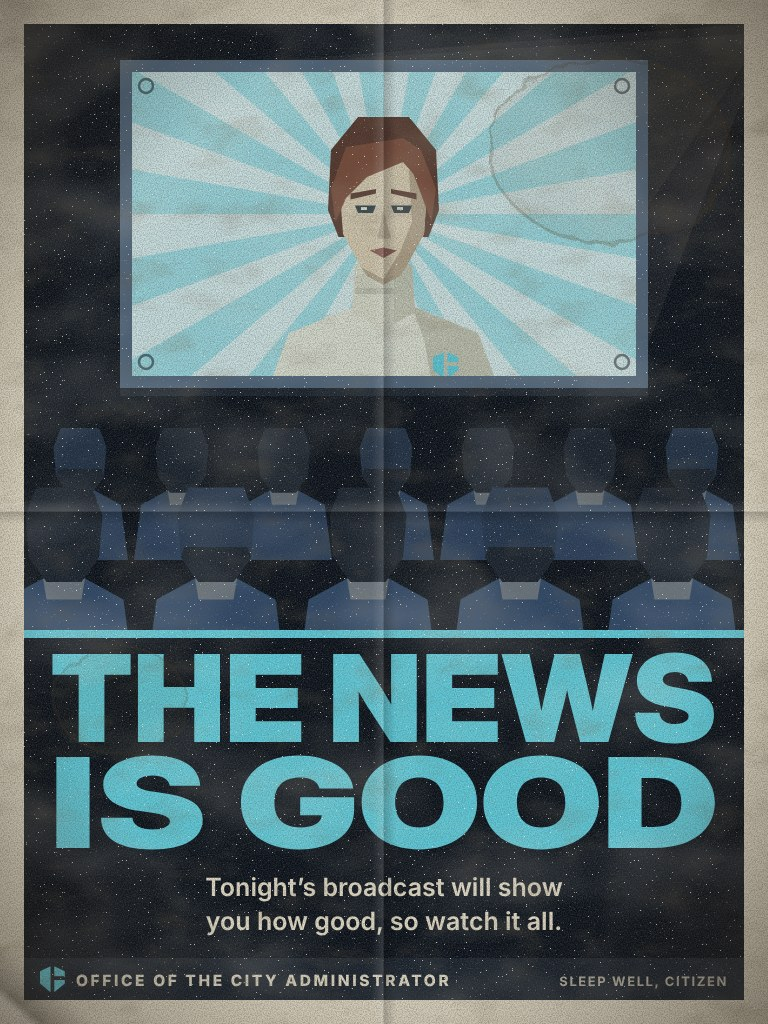
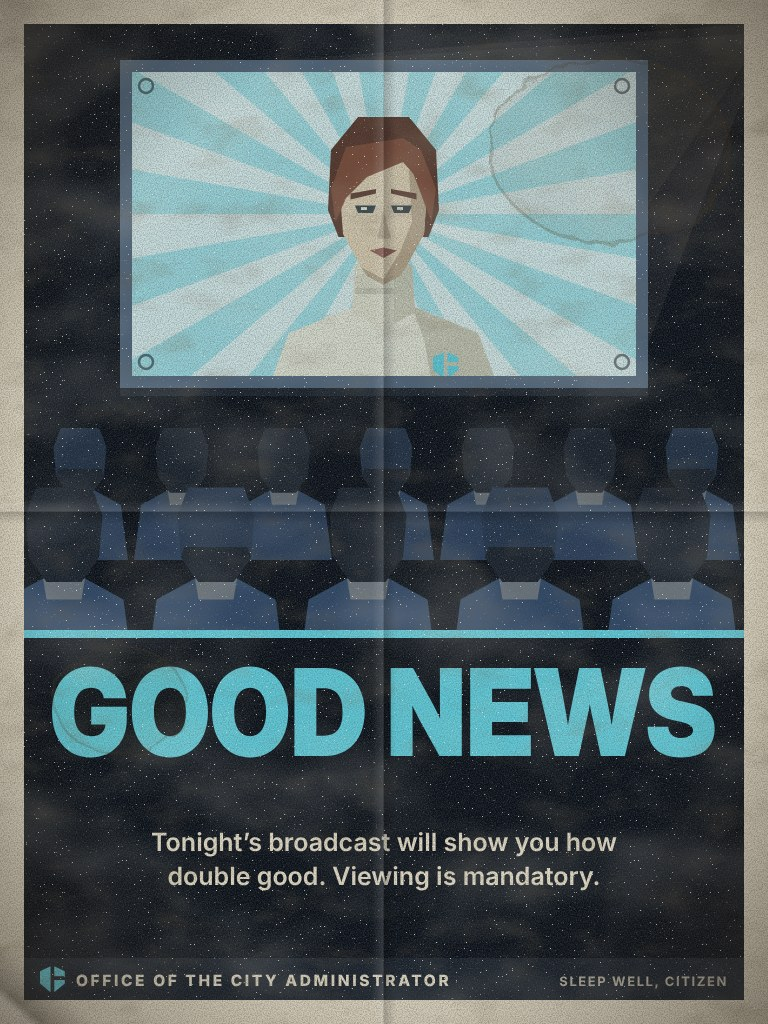
Dream posters: the owner's own wording, and three art fixes
The 21 Nightmare and propaganda dream posters carry the owner's corrected
headlines and subtitles, in the code and on the pictures. The barrels
poster's citizen is redrawn, the crossed pillars behind On-the-Spot
Guidance are factory windows, and the Battle Line's soldiers are drawn as
Overwatch soldiers. The owner's slogan is noted for later use.

Claude-Session: https://claude.ai/code/session_01Y8SXQorFoe55U3GQd1K7aN

Changed region(s): [[0.0625, 0.625, 0.9375, 0.9062]]

diff --git a/_dev/posters/dreams4.js b/_dev/posters/dreams4.js
@@ -50,7 +50,10 @@ ART.dream_massgames = () => {
 // On-the-Spot Guidance
 ART.dream_guidance = () => {
   let s = R(0, 0, 720, 610, '#cfc8b4') + rays(140, 200, 40, 1000, C.paper, 0, 360, 'opacity=".6"');
-  for (let x = 330; x < 720; x += 130) s += R(x, 0, 14, 300, C.steel2) + R(x - 40, 60, 94, 10, C.steel2);
+  for (const x of [330, 456, 582]) {
+    s += R(x, 28, 104, 250, C.steel) + R(x + 8, 36, 88, 234, '#e9e3d2');
+    s += R(x + 48, 36, 8, 234, C.steel) + R(x + 8, 92, 88, 7, C.steel) + R(x + 8, 150, 88, 7, C.steel) + R(x + 8, 208, 88, 7, C.steel);
+  }
   s += R(0, 540, 720, 70, C.steel) + R(0, 540, 720, 6, C.slate3);
   // the station
   s += R(372, 356, 250, 190, C.slate) + R(372, 356, 250, 14, C.slate2) + R(392, 392, 90, 60, '#16212e') + L('M400,436 L420,410 L440,426 L470,402', C.cyan, 4) + `<circle cx="520" cy="410" r="12" fill="${C.red}"/><circle cx="560" cy="410" r="12" fill="${C.steel2}"/>`;
@@ -158,32 +161,48 @@ function giant(x, base, h, col) {
   return P(`M${x - w * 0.5},${base} L${x - w * 0.56},${base - h * 0.62} L${x - w * 0.3},${base - h * 0.74} L${x + w * 0.3},${base - h * 0.74} L${x + w * 0.56},${base - h * 0.62} L${x + w * 0.5},${base}Z`, col) +
     E(x, base - h * 0.86, w * 0.2, h * 0.11, col) + P(`M${x - w * 0.56},${base - h * 0.62} L${x - w * 0.95},${base - h * 0.98} L${x - w * 0.78},${base - h * 1.02} L${x - w * 0.3},${base - h * 0.74}Z`, col) + P(`M${x + w * 0.56},${base - h * 0.62} L${x + w * 0.9},${base - h * 0.3} L${x + w * 0.72},${base - h * 0.26} L${x + w * 0.4},${base - h * 0.56}Z`, col);
 }
+// an Overwatch soldier in profile, facing right, aiming a pulse rifle (about 260 x 300; the legs behind cover)
+function soldier(x, y, s) {
+  const suit = '#465763', suitD = '#33414c', vest = '#1c252f', mask = '#55646e';
+  return G(`translate(${x},${y}) scale(${s})`, [
+    P('M26,118 L112,108 L126,300 L18,300Z', suit), P('M34,112 L108,106 L118,214 L30,220Z', vest), P('M30,220 L118,214 L120,232 L28,238Z', suitD),
+    P('M40,128 L98,122 L100,134 L40,140Z', suitD) + P('M42,150 L100,144 L102,156 L42,162Z', suitD),
+    P('M36,96 L60,104 L58,120 L30,112Z', vest), P('M44,84 L60,96 L112,96 L116,104 L52,108Z', vest),
+    P('M40,62 Q38,12 84,10 Q124,10 128,52 L130,76 L114,96 L60,96 L44,84Z', mask), P('M40,62 Q38,12 84,10 Q100,10 110,18 Q70,16 62,60 L60,96 L44,84Z', suitD),
+    `<circle cx="106" cy="52" r="14" fill="${vest}"/><circle cx="106" cy="52" r="9" fill="${C.cyan}"/><circle cx="103" cy="49" r="3" fill="#eafcff"/>`,
+    P('M116,70 L142,74 L142,94 L114,96Z', vest), `<circle cx="134" cy="85" r="9" fill="${C.steel}"/><circle cx="134" cy="85" r="4" fill="${vest}"/>`,
+    L('M118,94 Q96,118 70,112', vest, 7),
+    // the rifle, and the arms on it
+    P('M92,150 L262,120 L264,134 L206,146 L196,168 L164,172 L154,156 L96,168Z', '#10161d'), R(196, 124, 60, 5, C.cyan, 'transform="rotate(-10 196 124)"'), P('M150,160 L170,158 L166,196 L150,196Z', '#10161d'),
+    P('M60,122 L96,118 L128,166 L104,180Z', suit), P('M104,180 L128,166 L176,150 L182,164 L122,192Z', suitD), R(72, 132, 22, 16, C.warm, 'transform="rotate(-8 72 132)"'),
+    P('M176,150 L196,146 L200,160 L182,164Z', vest),
+  ].join(''));
+}
 ART.dream_battleline = () => {
-  let s = R(0, 0, 720, 610, DARK) + E(360, 400, 520, 260, C.red, 'opacity=".16"') + E(360, 400, 340, 170, C.red, 'opacity=".16"');
+  let s = R(0, 0, 720, 610, DARK) + E(500, 380, 460, 280, C.red, 'opacity=".16"') + E(520, 380, 300, 180, C.red, 'opacity=".16"');
   // the giants
-  for (const [x, h, o] of [[150, 300, 0.5], [600, 250, 0.45], [370, 400, 0.85]]) s += `<g opacity="${o}">` + giant(x, 440, h * 1.04, C.redD) + giant(x, 440, h, C.red) + '</g>';
-  s += `<circle cx="358" cy="94" r="5" fill="#fff4ee"/><circle cx="384" cy="94" r="5" fill="#fff4ee"/>`;
+  for (const [x, h, o] of [[420, 250, 0.45], [660, 300, 0.55], [540, 410, 0.9]]) s += `<g opacity="${o}">` + giant(x, 440, h * 1.04, C.redD) + giant(x, 440, h, C.red) + '</g>';
+  s += `<circle cx="528" cy="88" r="5" fill="#fff4ee"/><circle cx="554" cy="88" r="5" fill="#fff4ee"/>`;
   s += skyline(440, '#0d141d', '#3a2420', 5, 110) + R(0, 436, 720, 174, '#0d141d');
+  // her soldiers, and their fire
+  for (const [x, y, k, a] of [[250, 268, 0.86, -16], [124, 252, 1.0, -13], [-18, 234, 1.16, -10]]) {
+    s += G(`rotate(${a} ${x + 80 * k} ${y + 200 * k})`, soldier(x, y, k) + L(`M${x + 270 * k},${y + 124 * k} L${x + 420 * k},${y + 98 * k}`, C.cyan, 5 * k, 'opacity=".8" stroke-dasharray="26 18"') + `<circle cx="${x + 266 * k}" cy="${y + 126 * k}" r="${9 * k}" fill="#eafcff"/>`);
+  }
   // the line
   s += P('M0,520 L60,490 L150,496 L230,484 L330,494 L420,486 L520,496 L610,486 L720,500 L720,610 L0,610Z', C.slate2) + P('M0,540 L720,524 L720,610 L0,610Z', C.slate);
   for (let i = 0; i < 9; i++) s += E(40 + i * 82, 508, 44, 16, C.slate3) + E(40 + i * 82, 504, 44, 13, '#52677d');
-  // her soldiers
-  for (const [x, y, k] of [[20, 400, 1.5], [170, 392, 1.6], [330, 388, 1.65], [490, 392, 1.6], [630, 400, 1.5]]) {
-    s += L(`M${x + 70 * k},${y + 96 * k} L${x + 100 * k},${y - 6 * k}`, C.steel, 7) + `<circle cx="${x + 100 * k}" cy="${y - 8 * k}" r="5" fill="${C.cyan}"/>`;
-    s += reader(x, y, k, 3, true) + R(x + 22 * k, y + 38 * k, 36 * k, 5 * k, C.cyan, 'opacity=".7"');
-  }
   return s;
 };
 
 const POSTERS = [
-  row('hate', 81, ['TWO MINUTES.', 'EVERY CITIZEN.'], { night: true }),
-  row('massgames', 82, ['TEN THOUSAND', 'AS ONE']),
-  row('guidance', 83, ['SHE IS COMING TO', 'YOUR WORKPLACE'], { accent: 'red' }),
+  row('hate', 81, ['TWO PURE', 'MINUTES.'], { night: true }),
+  row('massgames', 82, ['WE ARE ONE']),
+  row('guidance', 83, ['WORKPLACE', 'VISITS'], { accent: 'red' }),
   row('scrap', 84, ['EVERY CAN', 'COUNTS']),
-  row('flowers', 85, ['GREET THE', 'LIBERATORS'], { accent: 'red' }),
-  row('duck', 86, ['WHEN THE SIREN SOUNDS,', 'DUCK AND COVER']),
+  row('flowers', 85, ['GREET YOUR', 'LIBERATORS'], { accent: 'red' }),
+  row('duck', 86, ['DUCK AND', 'COVER']),
   row('ravenholm', 87, ["WE DON'T GO", 'TO RAVENHOLM'], { night: true, ground: '#0a111a' }),
-  row('battleline', 88, ['THE LINE', 'HOLDS'], { night: true }),
+  row('battleline', 88, ['HOLD THE LINE'], { night: true }),
 ];
 
 module.exports = { ART, POSTERS };

diff --git a/_dev/posters/dreams2.js b/_dev/posters/dreams2.js
@@ -75,7 +75,7 @@ ART.dream_barrels = () => {
   s += L('M360,80 Q400,40 452,48', C.paper, 4, 'opacity=".5"') + L('M344,112 Q372,84 400,78', C.paper, 4, 'opacity=".35"') + L('M486,70 Q516,96 520,132', C.paper, 4, 'opacity=".5"');
   // where it will land
   s += E(590, 562, 78, 12, '#05080d', 'opacity=".75"');
-  s += citizen(552, 338, 0.98, { tone: 1 });
+  s += G('translate(652,0) scale(-1,1)', walker(0, 556 - 258 * 0.92, 0.92, { leg: '#4a6077', hat: '#4a6077' }));
   s += L('M520,120 Q590,190 592,300', C.red, 5, 'stroke-dasharray="10 12" opacity=".8"') + P('M580,296 L604,296 L592,320Z', C.red, 'opacity=".8"');
   return s;
 };
@@ -140,9 +140,9 @@ ART.dream_molasses = () => {
 const N = { night: true };
 const POSTERS = [
   row('maze', 61, ['THE PATROL KNOWS', 'EVERY TURN'], N),
-  row('barrels', 62, ['DO NOT STACK', 'THE BARRELS'], N),
+  row('barrels', 62, ['DO NOT', 'STACK BARRELS'], N),
   row('crumble', 63, ['WATCH', 'YOUR STEP'], N),
-  row('freeze', 64, ['WHEN A UNIT SAYS', 'FREEZE, FREEZE'], { accent: 'cyan' }),
+  row('freeze', 64, ['WHEN A UNIT SAYS', 'FREEZE, YOU FREEZE'], { accent: 'cyan' }),
   row('molasses', 65, ['RUNNING', 'IS FORBIDDEN'], N),
 ];
 

diff --git a/_dev/posters/dreams3.js b/_dev/posters/dreams3.js
@@ -151,7 +151,7 @@ const POSTERS = [
   row('harvest', 75, ['A RECORD', 'HARVEST'], { accent: 'red' }),
   row('shift', 76, ['DOUBLE THE QUOTA.', 'DOUBLE THE GLORY.'], { accent: 'red' }),
   row('spy', 77, ['CARELESS TALK', 'COSTS LIVES']),
-  row('newsreel', 78, ['THE NEWS', 'IS GOOD'], { night: true, acc: C.cyan, ground: '#0a111a' }),
+  row('newsreel', 78, ['GOOD NEWS'], { night: true, acc: C.cyan, ground: '#0a111a' }),
 ];
 
 module.exports = { ART, POSTERS };

diff --git a/PLAYER_TEXT.md b/PLAYER_TEXT.md
@@ -4,7 +4,7 @@ Made by `python3 _dev/player_text.py` from the code itself, so it can be made ag
 
 **How to correct it:** change the words inside the quotes, then send the whole file back. Leave everything outside the quotes as it is (that's how each line is found in the code again). Keep any {name} or %d / %s parts: the game fills those in. A line you don't touch stays as it is. To drop a line altogether, write DELETE inside its quotes. A note for me about a line can go after it on the same line, starting with NOTE:.
 
-Made from version 4b29dde. Admin-only console messages and log lines are left out.
+Made from version a2ae56c. Admin-only console messages and log lines are left out.
 
 12341 lines, from 332 files.
 
@@ -8660,69 +8660,69 @@ Made from version 4b29dde. Admin-only console messages and log lines are left ou
 
 > Note for you (not shown in game): Happy
 
-- "The sky belongs to the Combine, and citizens who leave the ground will be returned to it."  (text, line 43)
-- "Fresh fruit is a privilege of compliance; do not look up for it."  (text, line 44)
-- "A small, bald, beaked pet is loose in the city: do not approach it, do not feed it, report it."  (text, line 45)
-- "Movement without purpose is forbidden, and movement to music doubly so."  (text, line 46)
-- "Not the other thing, never the other thing; sleep is mandatory."  (text, line 47)
-- "Wagering on headcrabs is a crime against hygiene, and Sanitation is watching."  (text, line 48)
-- "All colour belongs to the city, and unlicensed colour will be scrubbed."  (text, line 49)
-- "Lines are for rations, not for fun."  (text, line 50)
-- "Surplus soap must be returned to the Commissary, for nothing floats in this city."  (text, line 51)
-- "Unlicensed vehicles will be confiscated, and so will their drivers."  (text, line 52)
+- "The sky belongs to the Combine, and citizens who leave the ground will be returned to it."  (text, line 45)
+- "Fresh fruit is a privilege of compliance; do not look up for it."  (text, line 46)
+- "A small, bald, beaked pet is loose in the city: do not approach it, do not feed it, report it."  (text, line 47)
+- "Movement without purpose is forbidden, and movement to music doubly so."  (text, line 48)
+- "Not the other thing, never the other thing; sleep is mandatory."  (text, line 49)
+- "Wagering on headcrabs is a crime against hygiene, and Sanitation is watching."  (text, line 50)
+- "All colour belongs to the city, and unlicensed colour will be scrubbed."  (text, line 51)
+- "Lines are for rations, not for fun."  (text, line 52)
+- "Surplus soap must be returned to the Commissary, for nothing floats in this city."  (text, line 53)
+- "Unlicensed vehicles will be confiscated, and so will their drivers."  (text, line 54)
 
 > Note for you (not shown in game): Neutral
 
-- "Citizens do not think about cheese; citizens think about their quota."  (text, line 54)
-- "Unless there is not, so remain standing until told."  (text, line 55)
-- "Report any change to your appearance at once, especially hooves."  (text, line 56)
-- "Not in a ring, not with gloves and not under lights."  (text, line 57)
-- "Every citizen will be tested, and you will not know when, so study."  (text, line 58)
-- "Do not ask where the last one goes."  (text, line 59)
-- "Whatever you are holding, it is now your responsibility."  (text, line 60)
-- "And only when Overwatch says it, so listen closely."  (text, line 61)
-- "Clocks are not to be stopped, wound back or argued with."  (text, line 62)
-- "This includes tea, and this especially includes tea."  (text, line 63)
-- "Every face is on file, so keep yours still."  (text, line 64)
-- "Open only the doors you were assigned, for some open onto nothing."  (text, line 65)
-- "Quiet blocks are safe blocks, and something is listening for noise."  (text, line 66)
-- "Litter is disorder: when an officer tells you, you pick it up, then you put it in the bin."  (text, line 67)
+- "Citizens do not think about cheese; citizens think about their quota."  (text, line 56)
+- "Unless there is not, so remain standing until told."  (text, line 57)
+- "Report any change to your appearance at once, especially hooves."  (text, line 58)
+- "Not in a ring, not with gloves and not under lights."  (text, line 59)
+- "Every citizen will be tested, and you will not know when, so study."  (text, line 60)
+- "Do not ask where the last one goes."  (text, line 61)
+- "Whatever you are holding, it is now your responsibility."  (text, line 62)
+- "And only when Overwatch says it, so listen closely."  (text, line 63)
+- "Clocks are not to be stopped, wound back or argued with."  (text, line 64)
+- "This includes tea, and this especially includes tea."  (text, line 65)
+- "Every face is on file, so keep yours still."  (text, line 66)
+- "Open only the doors you were assigned, for some open onto nothing."  (text, line 67)
+- "Quiet blocks are safe blocks, and something is listening for noise."  (text, line 68)
+- "Litter is disorder: when an officer tells you, you pick it up, then you put it in the bin."  (text, line 69)
 
 > Note for you (not shown in game): Nightmares
 
-- "If you do not, stay on the routes you were given."  (text, line 69)
-- "They are heavier than they look, and they fall."  (text, line 70)
-- "Not every floor in this city will hold you, so report cracks."  (text, line 71)
-- "Do not breathe or blink until told."  (text, line 72)
-- "You will not get far; you never do."  (text, line 73)
-- "Even when you close your eyes."  (text, line 74)
+- "Traitors can run, but they cannot hide."  (text, line 71)
+- "They're heavier than they look; an injury is just a fall away."  (text, line 72)
+- "Report cracks and traitor-sabotaged infrastructure. Thank you for helping keep everyone safe."  (text, line 73)
+- "Ignoring authority leads to punishment."  (text, line 74)
+- "Only traitors run, and they do not get far."  (text, line 75)
+- "Even when you close your eyes."  (text, line 76)
 
 > Note for you (not shown in game): Propaganda (her dreams)
 
-- "Your Administrator has done so much for you, so show her."  (text, line 76)
-- "A grateful city remembers her, so bring what you can."  (text, line 77)
-- "You already know the answer."  (text, line 78)
-- "When the monsters close in, the Administrator will save you, so wait for her."  (text, line 79)
-- "Loyalty is tested, and wrong answers are noted."  (text, line 80)
-- "This year's yield exceeds every target, so do not count it yourself."  (text, line 81)
-- "One worker did the work of fourteen, so what is your excuse?"  (text, line 82)
-- "Anyone could be listening, and anyone could be one of them."  (text, line 83)
-- "Tonight's broadcast will show you how good, so watch it all."  (text, line 84)
-- "Know the enemy's face, and show what you feel about it."  (text, line 85)
-- "Every citizen holds up a card, and together they make her face."  (text, line 86)
-- "Have your station clean, for she may have advice for you."  (text, line 87)
-- "Bring your scrap and everyone's scrap, for the city is built from it."  (text, line 88)
-- "Smile, wave and throw flowers, for they are here to help."  (text, line 89)
-- "A desk will protect you, as it always has."  (text, line 90)
-- "There is nothing there; the city has seen to it."  (text, line 91)
-- "Stand with her soldiers, and do not look at the giants."  (text, line 92)
+- "Your Administrator does so much for the city; it's the least you can do."  (text, line 78)
+- "She sacrifices herself for you, surely you can spare a single flower?"  (text, line 79)
+- "You already know the answer."  (text, line 80)
+- "When monsters attack, trust in the Administrator."  (text, line 81)
+- "Loyalty is tested and wrong answers are noted."  (text, line 82)
+- "This year's yield exceeds every target, trust Her to count it for you."  (text, line 83)
+- "Every day the Administrator does the work of fourteen people; what is your excuse?"  (text, line 84)
+- "Anyone could be listening, and anyone could be a traitor."  (text, line 85)
+- "Tonight's broadcast will show you how double good. Viewing is mandatory."  (text, line 86)
+- "Love your neighbour, hate the traitor."  (text, line 87)
+- "We all help the Administrator, and she adorns us with her beauty."  (text, line 88)
+- "You wouldn't want to disappoint her; keep your workplace efficient and clean."  (text, line 89)
+- "Waste not, want not."  (text, line 90)
+- "They have given their lives to protect you; show your appreciation."  (text, line 91)
+- "When the siren sounds, so does your training!"  (text, line 92)
+- "Traitors beware: this is what happens when you threaten our citizens."  (text, line 93)
+- "Stand with her soldiers; the traitors are coming."  (text, line 94)
 
 > Note for you (not shown in game): A dream without its own lines: its mood's.
 
-- "A compliant city dreams sweetly, and tonight may be one of those nights."  (text, line 98)
-- "If tonight's seems strange, report it in the morning, then forget it."  (text, line 99)
-- "Whatever you see when your eyes are closed is not real, probably."  (text, line 100)
-- "Your Administrator never rests, not even while you do."  (text, line 101)
+- "A compliant city dreams sweetly, and tonight may be one of those nights."  (text, line 100)
+- "If tonight's seems strange, report it in the morning, then forget it."  (text, line 101)
+- "Whatever you see when your eyes are closed is not real, probably."  (text, line 102)
+- "Your Administrator never rests, not even while you do."  (text, line 103)
 
 ## The Midnight Rally (a Happy dream you play) (sv_livingcity_dreamrally.lua)
 

diff --git a/CORE_CHANGELOG.md b/CORE_CHANGELOG.md
@@ -202,3 +202,4 @@ The record of every change to the core the owner approved, with the date and the
 - 2026-11-14 (later): the owner's answers. Yellow sociostability fills the collapse at 5% of what it did ("yellow needs to crawl it forward at 5% of what it does now"). The Free Vortigaunt off the Resistance's list, and vortigaunts chosen at a new life's start ("Remove it from the resistance list now as it is absurd for a human to take on a vortigaunt role ... However please build it so they can be chosen at the start"): the snapshot adds `lc_vort_start = 1`, `lc_vort_reach_minutes = 4`, `lc_vort_rescue_minutes = 10`. Action music on an enemy hit twice ("let's change the 2 shots to 'shooting an enemy twice'"); squad revive once unhit for 5 seconds ("start prioritizing reviving if they have not been hit by a bullet for 5 seconds"); Repel the attack counts every attacker ("tracking all of the rebels in the attack").
 - 2026-11-14: the Resistance's way marks, as the owner asked ("graffiti arrows and such to be used by the editor tool specifically as permanent decals to point the way towards resistance territory ... left ... right ... forward ... down ... the same orange color as the lambda ... or ... 'Freedom this way'"): five editor modes ("Mark: Resistance arrow, pointing left / right / up / down", "Mark: FREEDOM THIS WAY"), a new point kind `waymark` in the layout, new pictures `materials/livingcity/graffiti/arrow_left.png`, `arrow_right.png`, `arrow_up.png`, `arrow_down.png`, `freedom.png`. Shown like sprayed tags, never fading, never scrubbed. Nothing that was there changed; no setting or command added, the snapshot is as it was.
 - 2026-11-14 (evening): the owner, "the overwatch announcer voice I custom made is just SPAMMING announcements still, every like 15 seconds". The map's own city voice lines, replaced by their recordings since 11 November, now play one every `lc_map_pa_minutes` (5, new in the snapshot), never within a minute of the city's announcer. The city's announcements play once through a file channel; each Overwatch line is logged.
+- 2026-11-14: the owner's own wording for the 21 Nightmare and propaganda dream posters (their corrected list: "all of these have awkward AI English and I need to correct you"), headlines and subtitles, in `LC.DreamPosterHints` and on the pictures; "count if for you" read as "count it for you" and "the administrator" capitalised. Art, as they asked: the barrels poster's citizen redrawn ("a deformed head that looks like a shield"), the three crossed pillars behind On-the-Spot Guidance replaced by factory windows, the Battle Line's soldiers redrawn as Overwatch soldiers ("they look like robocop and not combine"). Their slogan "Love your neighbour, hate the traitor." is kept in `docs/features/dream-posters.md` and `TODO.md`.

diff --git a/HANDOFF.md b/HANDOFF.md
@@ -35,7 +35,7 @@ Read `CLAUDE.md` (house rules) and `CORE.md` (what must not change) first, then 
 - **Trail:** `LC.TrailRoute` plans between nodes nearest each end, never a straight line through walls (`LC.TrailNoWay`).
 - **Dream HUD:** `LC_CL.DreamQuietHUD` (cards, hints, pill hidden), goal line 15 s (`LC_CL.DreamGoalSecs`), notices lower.
 - Earlier today: the 13 November playtest's fixes (`TIMELINE.md`).
-- Other chat, same day (owner-asked; `CORE_CHANGELOG.md`; no snapshot change): the dream posters' pictures, 25 for the city (every Nightmare and propaganda dream, `lamarr`, `cheese`), drawn by `_dev/posters/dreams.js` to `dreams4.js` through `gen.js` (`dreamkit.js` reads each poster's words from the code); `dream_forecast` (the melons' one) hangs only inside It's Raining Melons, on four billboards (`LC.DreamBillboard`; `lcDreamProp`, `lc_big` in `lc_civposter.lua`; size and height are guesses). Small words are one sentence (the owner's rule). Still to draw: 21 Happy and Neutral dreams, `dream.png`, `dream_x.png` (`TODO.md`, a Fable 5.2 chat), where a secret Lamarr pet is also noted.
+- Other chat, same day (owner-asked; `CORE_CHANGELOG.md`; no snapshot change): the dream posters' pictures, 25 for the city (every Nightmare and propaganda dream, `lamarr`, `cheese`), drawn by `_dev/posters/dreams.js` to `dreams4.js` through `gen.js` (`dreamkit.js` reads each poster's words from the code); `dream_forecast` (the melons' one) hangs only inside It's Raining Melons, on four billboards (`LC.DreamBillboard`; `lcDreamProp`, `lc_big` in `lc_civposter.lua`; size and height are guesses). The Nightmare and propaganda posters' words are the owner's own corrected text: never reword them (new ones: one plain sentence). Still to draw: 21 Happy and Neutral dreams, `dream.png`, `dream_x.png` (`TODO.md`, a Fable 5.2 chat), where a secret Lamarr pet is also noted.
 - Same chat (owner-asked; `CORE_CHANGELOG.md`; no snapshot change): **the Resistance's way marks**, five permanent wall marks from the editor (`sv_livingcity_waymarks.lua`: `LC.WayMarkKinds`, `LC.AddWayMark`, `LC.WayMarks`, sent by `LC.SendTags`; modes `way_*`, point kind `waymark`; pictures `graffiti/arrow_*.png`, `freedom.png` from `_dev/posters/arrows.js`; `docs/features/way-marks.md`). Unseen in game.
 - **Debug report "Near you"** (`LC.NearReport`, sv_livingcity_debug.lua): every NPC near each player, and recent jumps, appearances and removals near them; added to catch the vanishing unit (the 13 November report's NPC list was a sample without it).
 - **The map's PA** (`LC.MapPAAllowed`, sv_livingcity_lines.lua): the map's own cityvoice lines, swapped for the owner's recordings, were the "spam"; one per `lc_map_pa_minutes` (5). Announcements play through `LC_CL.PlayAnnounceOnce`; "PA: ... says" log lines.

diff --git a/docs/features/dream-posters.md b/docs/features/dream-posters.md
@@ -10,3 +10,4 @@ The owner, 12 November: "propaganda posters that hint at dreams. Posters in the 
 - **Painted over** by the Resistance it reads **WAKE UP**.
 - **Pictures (optional):** `garrysmod/materials/livingcity/posters/dream_<codeword>.png` (or `.jpg`), else `dream.png` for all of them, else the drawn notice; painted over, `dream_x.png`. Loose in the server's `garrysmod/`, with the other posters (`livingcity_content.zip`). **Drawn so far (14 November), 25 for the city:** every Nightmare (`maze`, `barrels`, `crumble`, `freeze`, `molasses`, `watchers`) and every propaganda dream (`adore`, `roses`, `mirror`, `saviour`, `quiz`, `harvest`, `shift`, `spy`, `newsreel`, `hate`, `massgames`, `guidance`, `scrap`, `flowers`, `duck`, `ravenholm`, `battleline`), and `lamarr` and `cheese`; all `dream_<codeword>.jpg`, 768 x 1024, the civil notices' look, "SLEEP WELL, CITIZEN" in the footer. They are drawn by `_dev/posters/dreams.js` to `dreams4.js` (shared pieces and the words, read from the code, in `dreamkit.js`), rendered with `node _dev/posters/gen.js OUTDIR`, then saved as JPG. The other Happy and Neutral dreams (22) still show the drawn notice; `dream.png` and `dream_x.png` are not made yet (`TODO.md`).
 - **The melons' poster hangs only inside its dream** (the owner, 14 November: "a little too on the nose for use as an awake poster in the city; please integrate it into the raining watermelon dream"): `dream_forecast.jpg`, on four billboards three times a wall poster's size, one at each side of It's Raining Melons' meadow (`LC.DreamBillboard`, `LC.MelonBillboard` 3; E reads it; without the picture, the drawn notice with the same words). In the waking city a poster hinting at that dream stays the drawn notice.
+- **The Nightmares' and propaganda dreams' words are the owner's own** (14 November: "all of these have awkward AI English and I need to correct you"; their corrected list, 21 posters): never reword them. A subtitle of theirs may be two sentences. **A slogan the owner wants kept for use elsewhere** (their note: "THIS IS GOLD, SAVE THIS SOMEWHERE AS A SLOGAN"): **"Love your neighbour, hate the traitor."** (now the Two Minutes of Hate poster's subtitle).

diff --git a/TODO.md b/TODO.md
@@ -248,3 +248,5 @@ Each of these is the owner's own request from the playtest notes. The small ones
 - [ ] **Waiting on the owner's server:** the Overwatch voice repeating the "report" announcement and the Administrator's not playing (needs `lc_announce_clips`); underground rebel camps never chosen for retake jobs (needs `lc_territory`: those jobs only go to ground the Resistance has newly taken, and it looks as if the underground camps never grow); a unit running past, vanishing and starting again (the owner has no name for it: look in the first 13 November debug report). Yellow filling the collapse: settled 14 November (5%).
 - [ ] **The owner, 14 November: a secret Lamarr pet.** "add a secret Lamar pet that is non-aggressive and is friendly to the gamemode. I don't know the mechanics of that yet, but I feel like maybe it should sit idle on top of the lab equipment prop if Dr Kleiner is the resistance scientist." Not designed yet: settle the mechanics with the owner first (how it's found, what it does, who it's friendly to, whether it only appears when the Resistance's scientist is Dr Kleiner).
 - [ ] **Order-dependent test (found 14 November):** "beaten until they blacked out: they came to in the crowd" (LedgerTests) failed once in `run_parallel.py` (6265 passed, 1 failed) and passes alone (`run_section.py`).
+- [ ] **A slogan to use (the owner, 14 November: "THIS IS GOLD, SAVE THIS SOMEWHERE AS A SLOGAN"): "Love your neighbour, hate the traitor."** It is the Two Minutes of Hate poster's subtitle; where else it goes (her speeches, the screens, an announcement, a civil notice) is the owner's to say.
+- [ ] **Ask the owner (14 November):** in their corrected poster list the Stakhanov Shift's line read "(Union shift)": do they want that dream renamed? And its poster still shows a worker with a hammer and ×14, while its new subtitle is about the Administrator doing the work of fourteen: redraw it with her?

diff --git a/TIMELINE.md b/TIMELINE.md
@@ -444,3 +444,4 @@ Every commit says what it did; TIMELINE.md has the summary. The big pieces:
 - 2026-11-14, later still (owner: "the remaining posters for the rest of the propaganda dreams and nightmare dreams"): 21 more dream poster pictures (5 Nightmares, 16 propaganda), `_dev/posters/dreams2.js` to `dreams4.js` and `dreamkit.js`; no gamemode code changed.
 - 2026-11-14, last (owner-asked): the Resistance's way marks: four sprayed arrows and FREEDOM THIS WAY, painted on walls with the editor, permanent (`sv_livingcity_waymarks.lua`, `docs/features/way-marks.md`, `_dev/posters/arrows.js`).
 - 2026-11-14, evening: the "announcer spam" was the map's own PA lines playing the owner's recordings every few seconds: limited to one per `lc_map_pa_minutes` (5); announcements play once through a file channel; the debug report gained "Near you" and counts of the map's PA lines.
+- 2026-11-14, last: the owner's corrected words on the 21 Nightmare and propaganda posters, and three art fixes (barrels citizen, guidance background, battle line soldiers).
